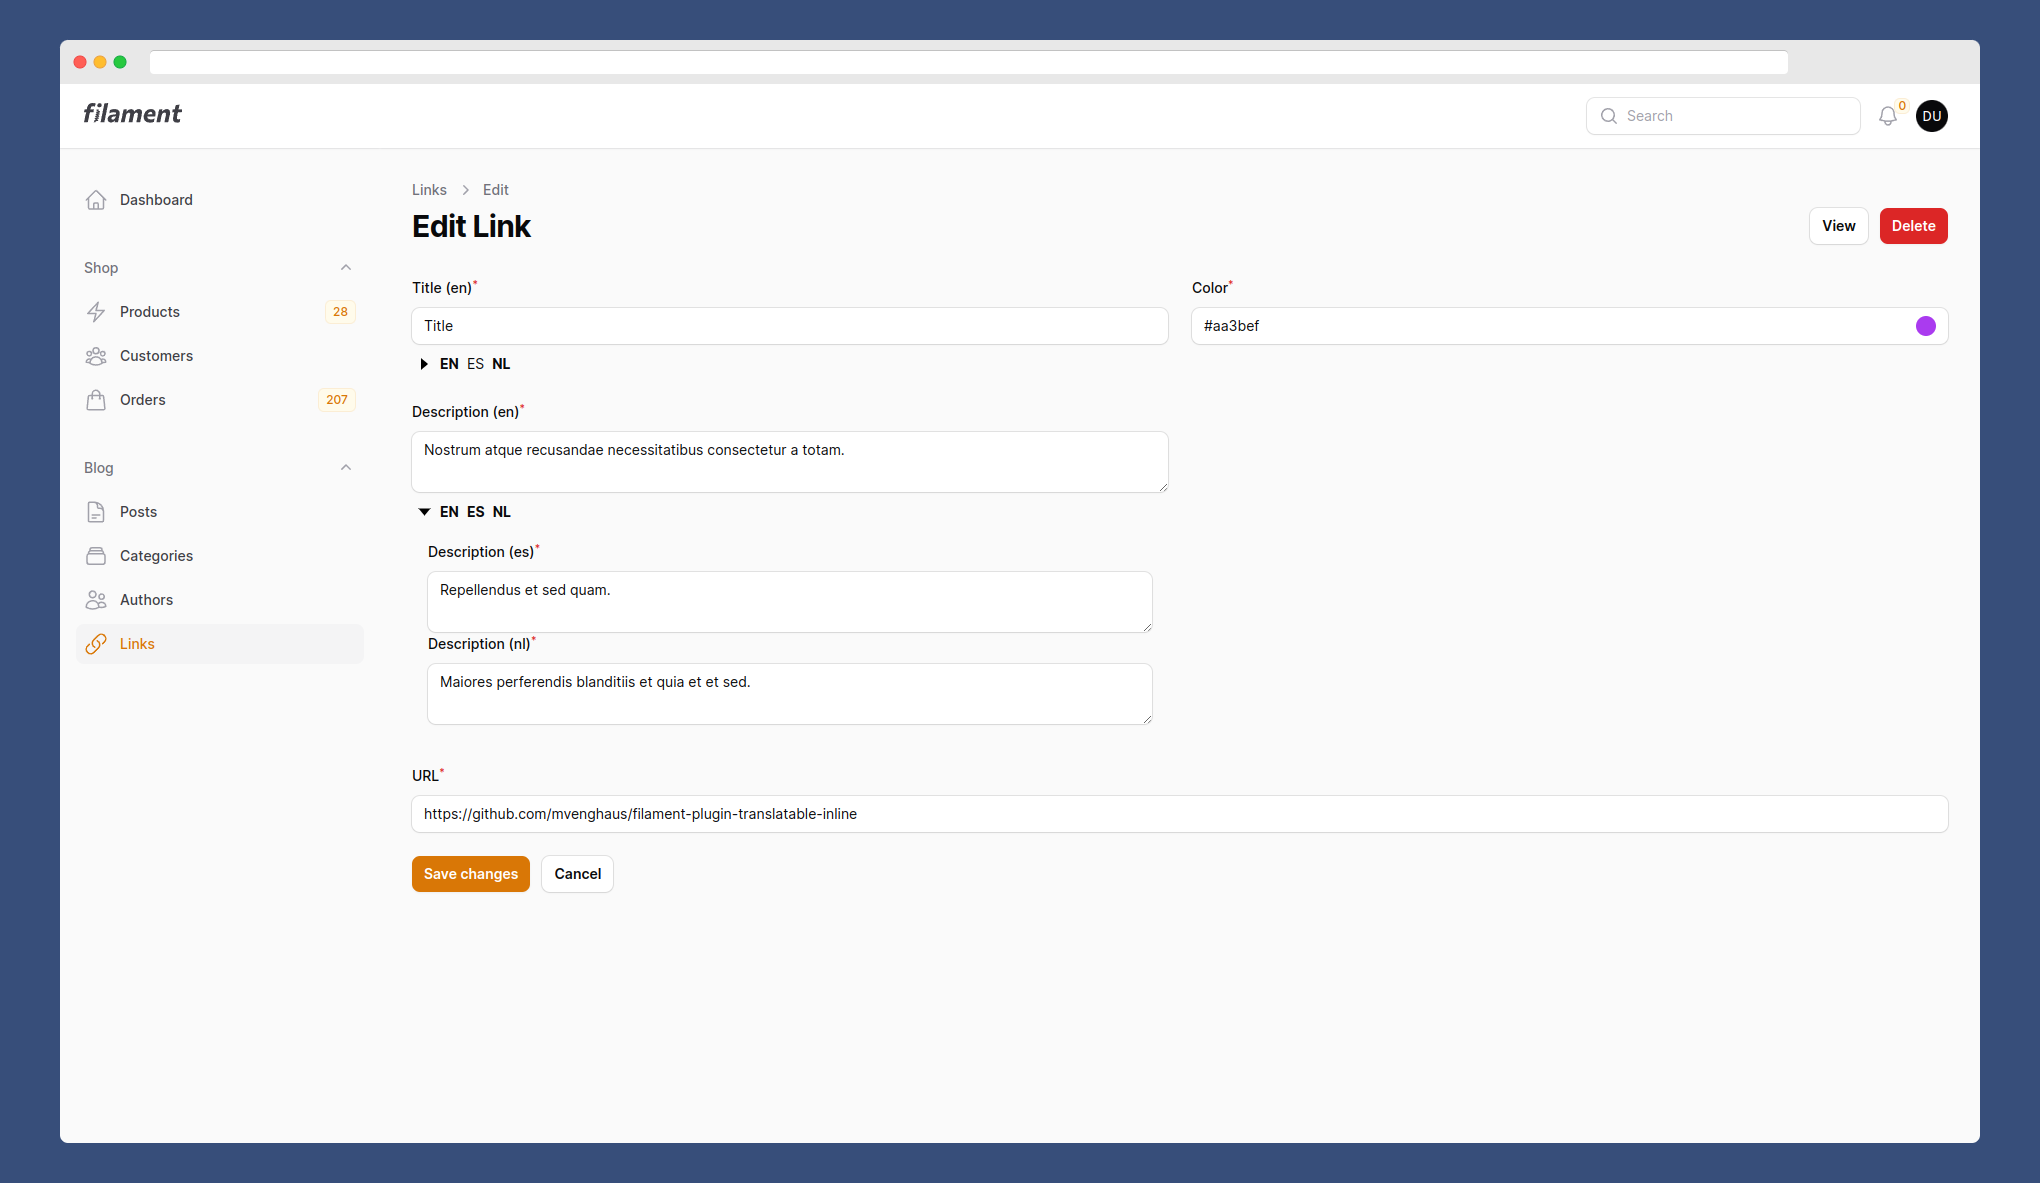
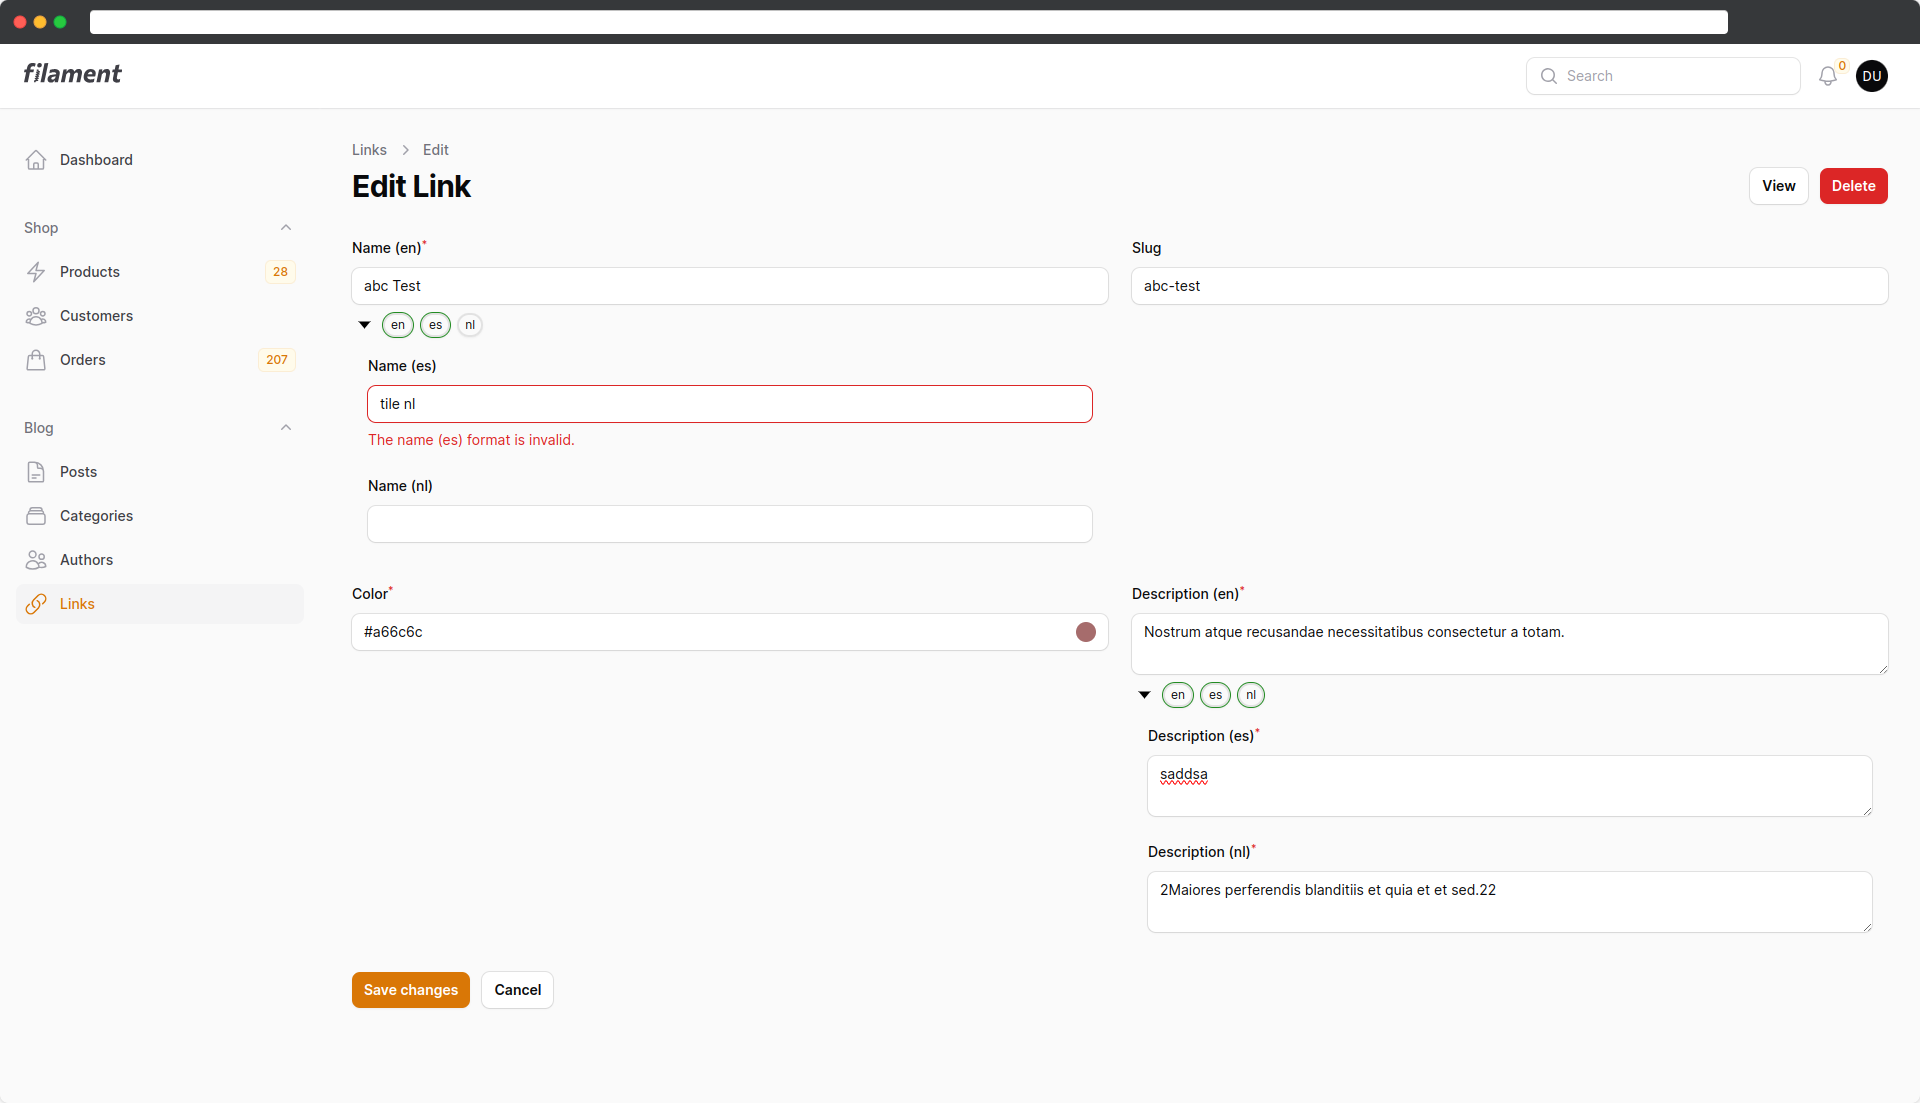
updated readme & changelog

diff --git a/README.md b/README.md
@@ -90,13 +90,33 @@ For each field that can be translated, simply repeat this process, and you'll be
 
 Sometimes you might want the field to be required, but only for the primary language. For example, if you set the TextInput to 'required,' it applies to all language variants. This is where this option comes into play. It removes the 'required' validation for all other languages except the primary one.
 
-# Usage
+## Tipps & Hints
 
-## Empty translations
+### Validation
+
+If all of your locales are required and if your values do not pass the JS validation, then the variants will remain automatically expanded.
+
+### afterStateUpdated
+
+
+
+If you want to use "afterStateUpdated", you have to consider that the state path shifts by one level.'
+
+**Before**
+```php
+->afterStateUpdated(fn (Set $set, ?string $state) => $set('slug', Str::slug($state))),
+```
+
+**After**
+```php
+->afterStateUpdated(fn (Set $set, ?string $state) => $set('../slug', Str::slug($state))),
+```
+
+### Empty translations
 
 ![Screenshot](https://raw.githubusercontent.com/mvenghaus/filament-plugin-translatable-inline/main/docs/images/screenshot.png)
 
-As you can see in the screenshot, the field "Title" is not bolded for "ES". That means that this translation is empty.
+As you can see in the screenshot, the "nl" is not filled and therefore not marked.
 
 # Contact
 If you any questions or you find a bug, please [contact me via email](mailto:support@inklammern.de).

diff --git a/CHANGELOG.md b/CHANGELOG.md
@@ -2,6 +2,11 @@
 
 All notable changes to `mvenghaus/filament-plugin-translatable-inline` will be documented in this file.
 
+## 3.0.3 - 2024-01-16
+- refactored onlyMainIsRequired
+- improved validation handling
+- little design upgrade
+
 ## 3.0.2 - 2024-01-16
 - fixed issue when using afterStateUpdated on additional locales
 
